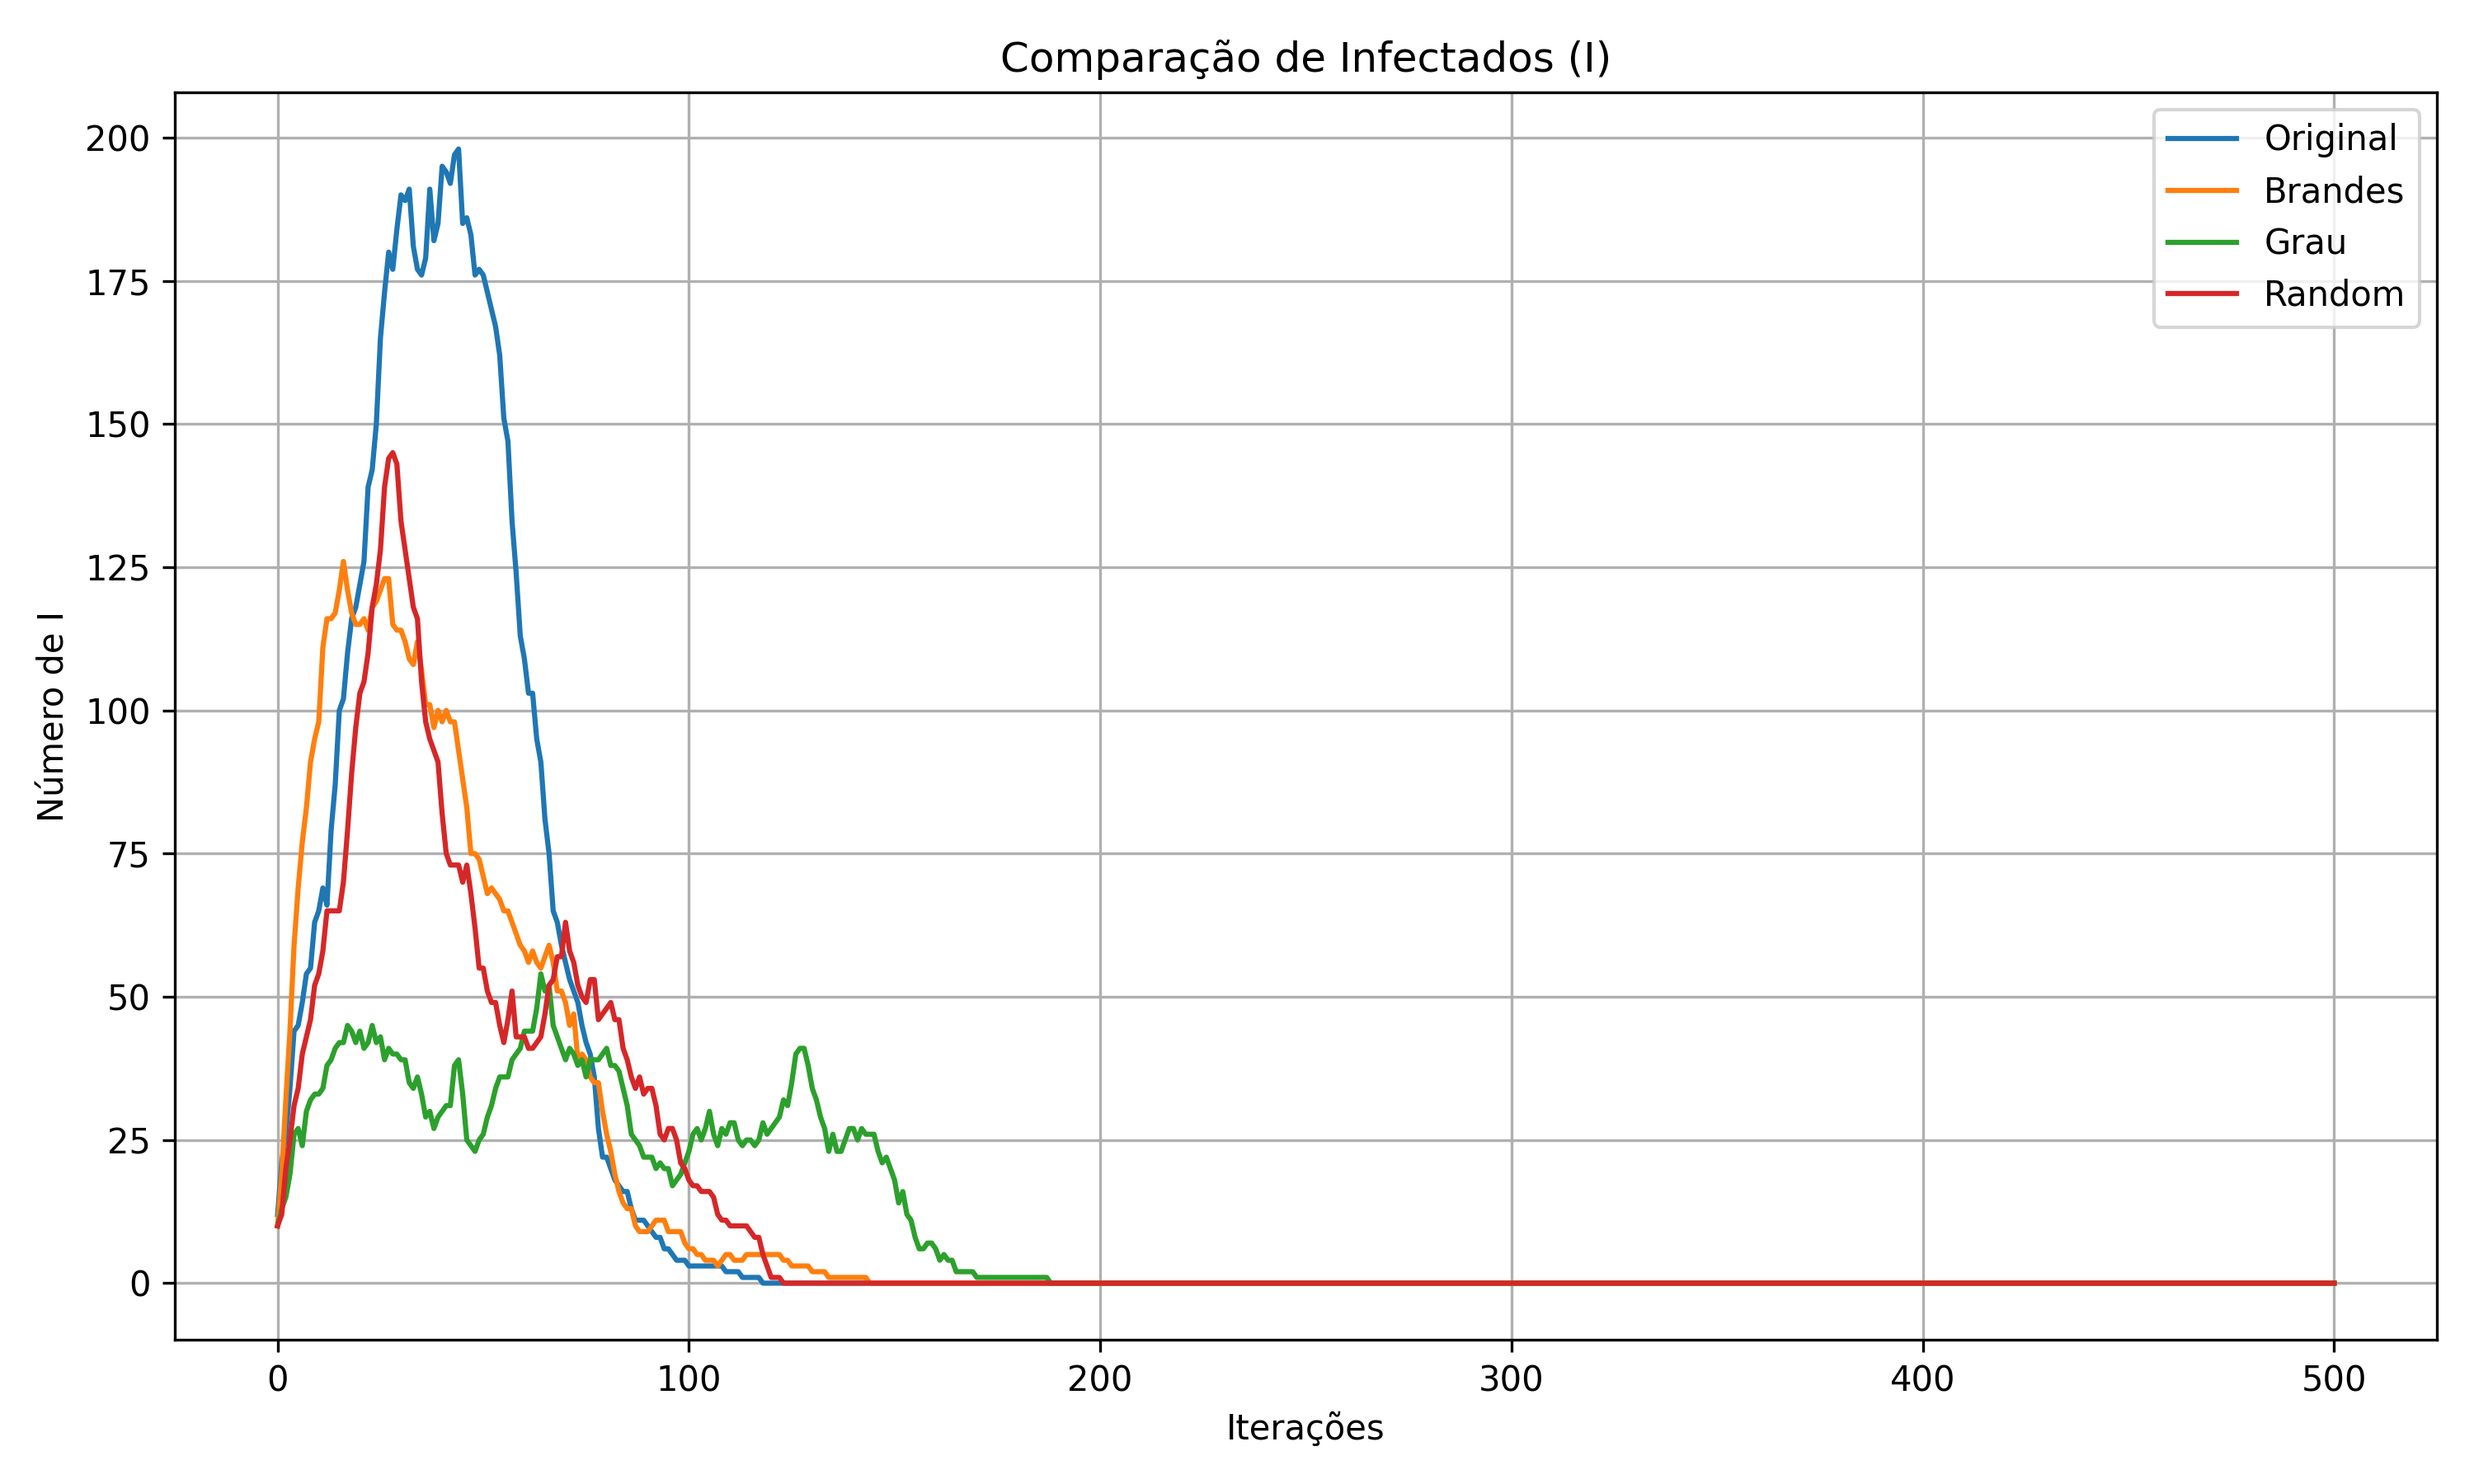
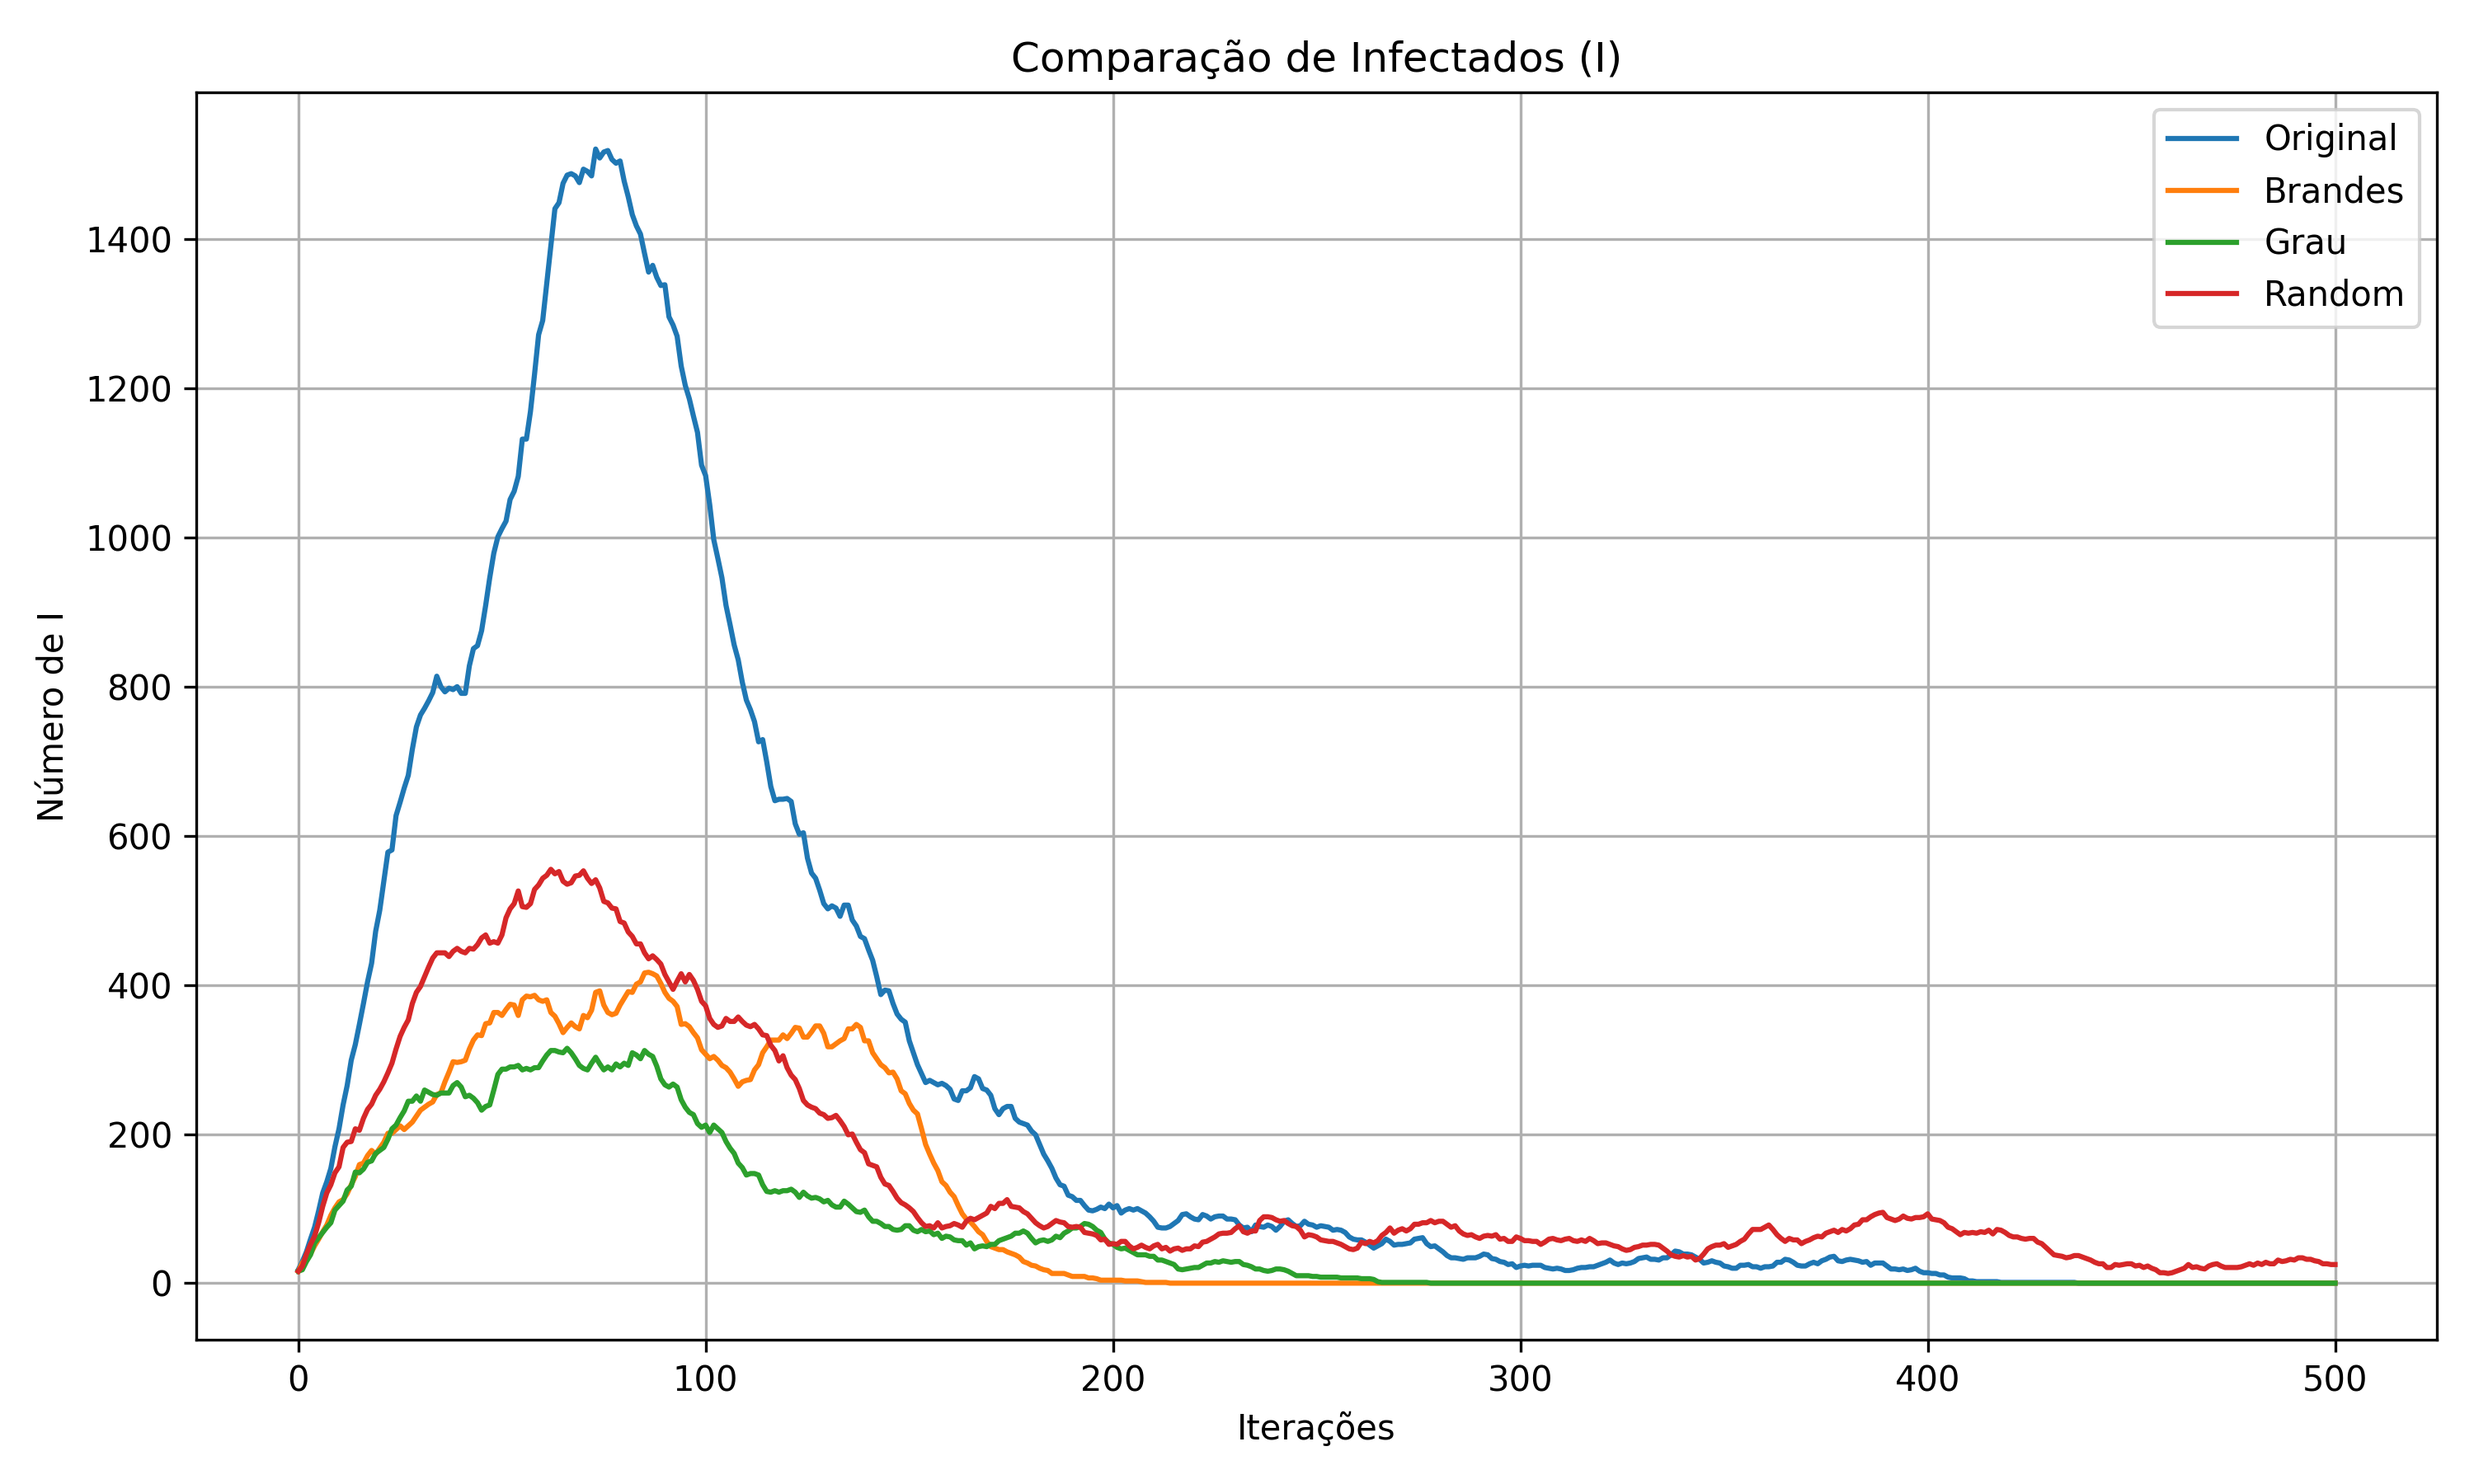
✨ Update files and images

diff --git a/plot/plot.py b/plot/plot.py
@@ -77,26 +77,26 @@ def plot_SIR(S_before, I_before, R_before, S_after, I_after, R_after, save_path:
 
 import matplotlib.pyplot as plt
 
-def plot_times(nomes, tempos_ms, save_path: str = None):
+def plot_times(nomes, tempos, save_path: str = None):
     """
     Gera um gráfico de barras comparando o tempo de execução de diferentes algoritmos.
 
     Args:
         nomes (list of str): Lista com os nomes dos algoritmos (ex: ["Brandes", "Naive", "Optimizado"]).
-        tempos_ms (list of float): Tempos de execução em milissegundos.
+        tempos (list of float): Tempos de execução em milissegundos.
         save_path (str, optional): Caminho para salvar o gráfico. Se None, o gráfico será exibido.
     """
-    assert len(nomes) == len(tempos_ms), "Listas 'nomes' e 'tempos_ms' devem ter o mesmo tamanho."
+    assert len(nomes) == len(tempos), "Listas 'nomes' e 'tempos' devem ter o mesmo tamanho."
 
     plt.figure(figsize=(8, 5))
-    bars = plt.bar(nomes, tempos_ms, color=['#4e79a7', '#f28e2b', '#e15759'])
+    bars = plt.bar(nomes, tempos, color=['#4e79a7', '#f28e2b', '#e15759'])
 
     # Adiciona os valores acima das barras
-    for bar, tempo in zip(bars, tempos_ms):
+    for bar, tempo in zip(bars, tempos):
         yval = bar.get_height()
-        plt.text(bar.get_x() + bar.get_width()/2, yval + 2, f"{tempo:.1f} ms", ha='center', va='bottom', fontsize=10)
+        plt.text(bar.get_x() + bar.get_width()/2, yval + 2, f"{tempo:.1f} s", ha='center', va='bottom', fontsize=10)
 
-    plt.ylabel("Tempo de execução (ms)")
+    plt.ylabel("Tempo de execução (s)")
     plt.title("Comparação de Tempo de Algoritmos")
     plt.grid(axis='y', linestyle='--', alpha=0.5)
     plt.tight_layout()

diff --git a/simulations/simulations.py b/simulations/simulations.py
@@ -1,6 +1,7 @@
 import lib.graph_lib as glib
 import random
 from tqdm import tqdm
+from utils.utils import clip
 
 def simulate_SI(graph: glib.Graph, steps: int=20, beta: float=0.3, verbose: bool=False):
     """
@@ -62,8 +63,8 @@ def simulate_SIR(graph: glib.Graph, beta: float=0.3, gamma: float=0.1, steps: in
     
     status = {node: 'S' for node in nodes}
 
-    # Começa com 1% dos nó infectado aleatório
-    k = max(1, int(len(nodes) * 0.01))
+    # Começa com 0.1% dos nó infectado aleatório
+    k = max(1, int(len(nodes) * 0.001))
     infected = random.sample(nodes, k)
     
     for node in infected:
@@ -81,7 +82,11 @@ def simulate_SIR(graph: glib.Graph, beta: float=0.3, gamma: float=0.1, steps: in
         for node in nodes:
             if status[node] == 'I':
                 for neighbor in graph[node]:
-                    if status[neighbor] == 'S' and random.random() < beta:
+                    weight = graph[node][neighbor]['weight']
+                    x = -0.0001189*weight**2 + 0.0002378*weight + 0.29988
+                    prob = clip(x, 0.1, beta)
+                    
+                    if status[neighbor] == 'S' and random.random() < prob:
                         new_status[neighbor] = 'I'
 
                 if random.random() < gamma:

diff --git a/main.py b/main.py
@@ -7,11 +7,19 @@ import time
 import random
 
 # Baixa o grafo de Natal-RN e salva a imagem
-G = load_natal_graph('lengths')
+G = load_natal_graph('length')
 plot_graph(G, 'imgs/natal.png', figsize=(20, 20), node_size=10)
 
 # Converte para graph_lib
 G = netx_to_graph_lib(G)
+
+weight = 0
+edges = 0
+for u, v, attrs in G.edges():
+   weight += attrs['weight']
+   edges += 1
+
+print(f'Grafo de Natal-RN com peso médio de {weight // edges}.')
 
 # Calcula a centralidade de intermediação e alavanca o tempo de execução
 start_time = time.time()

diff --git a/utils/utils.py b/utils/utils.py
@@ -57,3 +57,17 @@ def remove_nodes(G: glib.Graph, nodes: list) -> glib.Graph:
       G_copy.remove_node(node)
 
    return G_copy
+
+def clip(x: float, min_val: float, max_val: float) -> float:
+   """
+   Limita o valor de x entre min_val e max_val
+
+   Args:
+       x (float): O valor a ser limitado
+       min_val (float): O valor mínimo
+       max_val (float): O valor máximo
+
+   Returns:
+       float: O valor limitado
+   """
+   return max(min(x, max_val), min_val)
